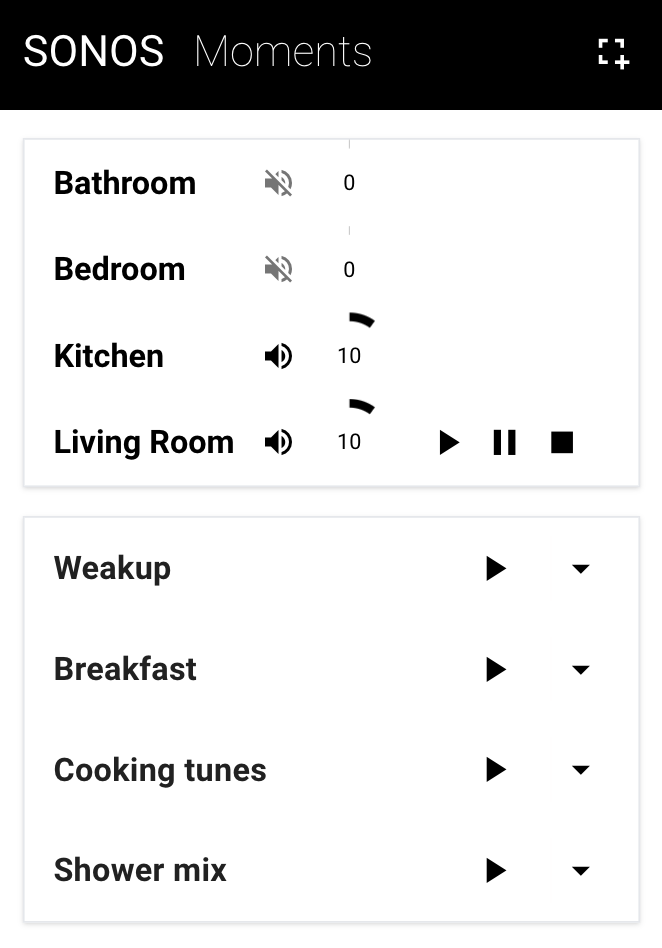
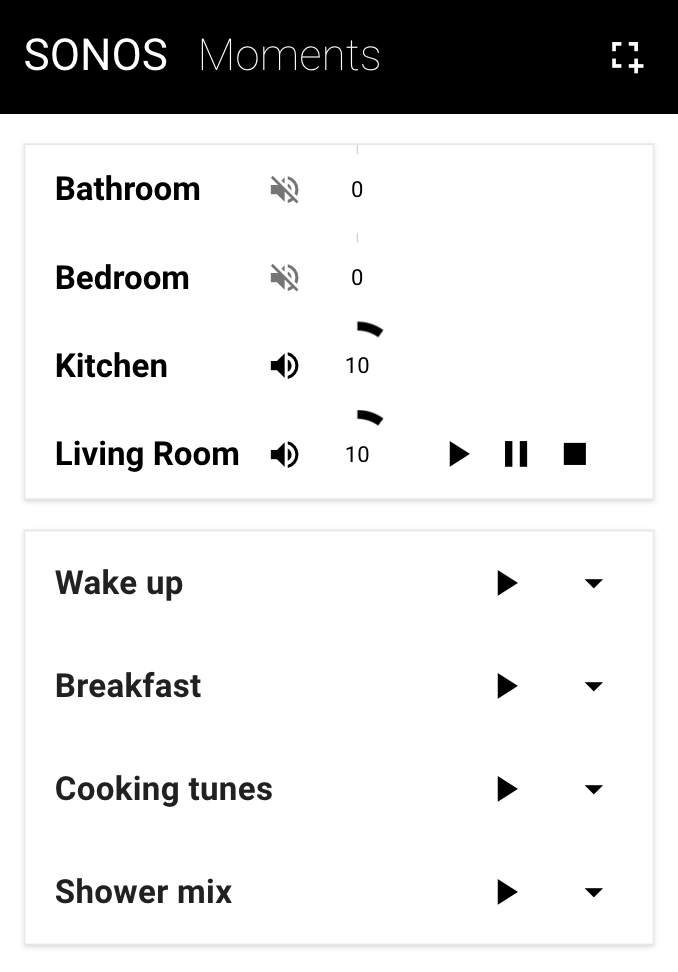
improve screenshot

diff --git a/README.md b/README.md
@@ -1,9 +1,9 @@
 # Sonos Moments
 
+<img src="https://raw.githubusercontent.com/falkoschindler/sonos_moments/main/screenshot.png"
+    width="240" align="right" alt="Screenshot" />
+
 This is a simple web application based on [SoCo](https://github.com/SoCo/SoCo/) and [NiceGUI](https://github.com/zauberzeug/nicegui) to control Sonos speakers in a local network.
 Its main feature is to capture "moments", i.e. the current state of the speakers, and to restore them later.
 This way, you can easily switch between different scenarios, e.g. your favorite radio station during breakfast in the kitchen, a relaxing playlist in the living room, or a party mix in the garden - all without having to use the original Sonos app.
 Especially since their latest update, the Sonos app has become quite bloated and slow, so this is a lightweight alternative for those who just want to control their speakers.
-
-<img src="https://raw.githubusercontent.com/falkoschindler/sonos_moments/main/screenshot.png"
-    width="200" alt="Screenshot" />
